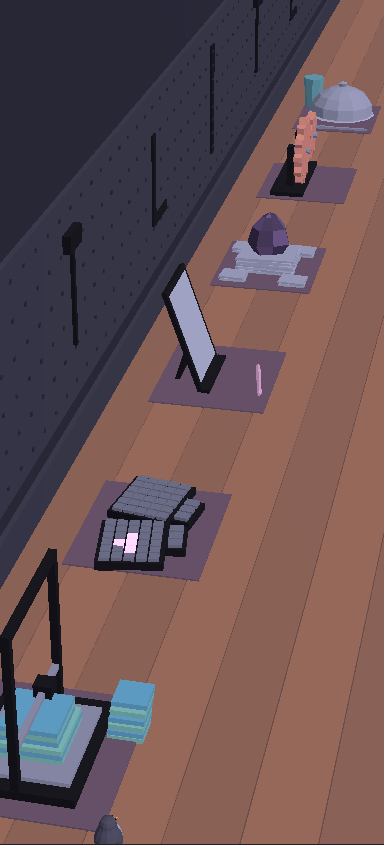
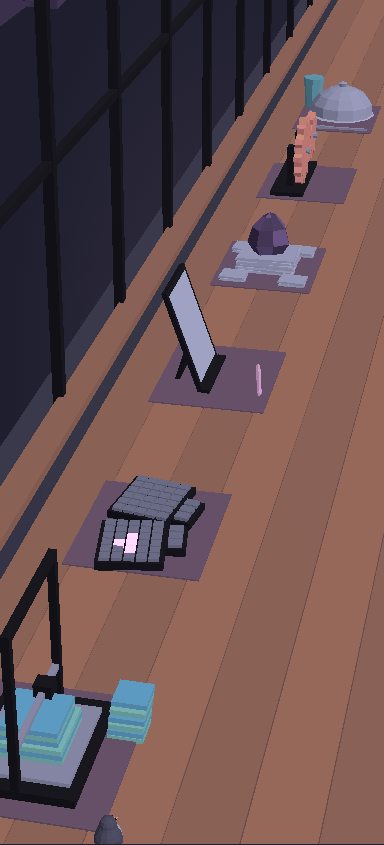
fix: window framing on the Interessi cards, darker dusk sky (PORT-92)

Changed region(s): [[0.0, 0.0, 0.875, 0.7077]]

diff --git a/src/scripts/three/interessi/bench.ts b/src/scripts/three/interessi/bench.ts
@@ -71,7 +71,14 @@ export function shotsFor(portrait: boolean): Record<string, Shot> {
     table.overview = { target: [-30, 8.2, 2], from: [-1, 0.55, 0.22], spanH: 40, spanW: 15 };
     interessiOrder.forEach((slug, i) => {
       const x = stationX(i) + (slug === 'food' ? 0.5 : -1);
-      table[slug] = { target: [x, 1, -2.8], from: [-0.12, 1, 0.6], spanH: 12, spanW: 17 };
+      // La scheda del tablet e la piu alta: oggetto un po' piu piccolo, pinguino sempre in vista.
+      const tall = slug === 'supernote';
+      table[slug] = {
+        target: [x, 1, tall ? -2 : -2.8],
+        from: [-0.12, 1, 0.6],
+        spanH: 12,
+        spanW: tall ? 20 : 17,
+      };
     });
     table.exit = { target: [LAST_X + 5, 1, 0], from: [-0.2, 0.75, 1], spanH: 12, spanW: 15 };
     return table;
@@ -80,8 +87,10 @@ export function shotsFor(portrait: boolean): Record<string, Shot> {
   table.overview = { target: [-20, 2, 1], from: [-1, 0.4, 0.7], spanH: 32, spanW: 66 };
   interessiOrder.forEach((slug, i) => {
     const x = stationX(i) + (slug === 'food' ? 0.4 : -1.4);
-    table[slug] = { target: [x, 2, 0.6], from: [-0.1, 0.55, 1], spanH: 13, spanW: 20 };
+    // Bassa, cosi dietro l'oggetto si vede il cielo; la tastiera e piatta e chiede piu altezza.
+    const rise = slug === 'zsa-moonlander' ? 0.42 : 0.26;
+    table[slug] = { target: [x, 4, 0.6], from: [-0.1, rise, 1], spanH: 13, spanW: 20 };
   });
-  table.exit = { target: [LAST_X + 3, 2.5, 1], from: [-0.15, 0.4, 1], spanH: 13, spanW: 27 };
+  table.exit = { target: [LAST_X + 3, 2.5, 1], from: [-0.15, 0.24, 1], spanH: 13, spanW: 27 };
   return table;
 }

diff --git a/src/scripts/three/scenes/interessi.ts b/src/scripts/three/scenes/interessi.ts
@@ -59,7 +59,7 @@ const HEAD_REACH = 1.3;
 const PRINT_START = 0.3;
 const LID_OPEN = 1.9;
 /** Cielo: quanto ogni fascia tende al caldo, dall'orizzonte al buio. */
-const SKY = [0.6, 0.48, 0.36, 0.26, 0.18, 0.12, 0.07, 0.03];
+const SKY = [0.36, 0.26, 0.18, 0.12, 0.08, 0.05, 0.03, 0.01];
 
 export function mount({
   canvas,
@@ -107,7 +107,7 @@ export function mount({
     wallLow: channels(tint(['--surface-hi', '--surface'])),
     sky: SKY.map((k) => channels(night.clone().lerp(glow, k))),
     sun: channels(tint(['--ctp-yellow', '--text']).lerp(peach, 0.5)),
-    hillFar: channels(night.clone().lerp(tint(['--ctp-mauve', '--text']), 0.3)),
+    hillFar: channels(night.clone().lerp(tint(['--ctp-mauve', '--text']), 0.2)),
     hillNear: channels(night.clone().lerp(tint(['--ctp-mauve', '--text']), 0.12)),
     mat: channels(soft(accent, 0.2)),
     frame: channels(tint(['--bg-deep', '--bg'])),

diff --git a/src/scripts/three/interessi/objects.ts b/src/scripts/three/interessi/objects.ts
@@ -168,11 +168,11 @@ function buildRoom(m: Mesher, p: BenchPalette): void {
   const sun: [number, number][] = [];
   for (let i = 0; i < 16; i += 1) {
     const angle = (i * Math.PI) / 8;
-    sun.push([Math.cos(angle) * 7, Math.sin(angle) * 7]);
+    sun.push([Math.cos(angle) * 5, Math.sin(angle) * 5]);
   }
-  m.extrude(sun, 1, p.sun, { x: 14, y: 16, z: SKY_Z + 3 });
-  ridge(m, SKY_Z + 7, 13, 0.03, p.hillFar);
-  ridge(m, SKY_Z + 14, 9, 0.047, p.hillNear);
+  m.extrude(sun, 1, p.sun, { x: 78, y: 11, z: SKY_Z + 3 });
+  ridge(m, SKY_Z + 7, 9, 0.03, p.hillFar);
+  ridge(m, SKY_Z + 14, 3, 0.047, p.hillNear);
   const planks = Math.ceil((BENCH_FRONT - BENCH_BACK) / PLANK);
   for (let i = 0; i < planks; i += 1) {
     const tint = i % 2 ? p.wood : p.woodAlt;

diff --git a/PORTFOLIO_SPEC.md b/PORTFOLIO_SPEC.md
@@ -90,7 +90,7 @@ Valori gzip, controllati a ogni build da `pnpm check:budget` (`scripts/budget.ts
 | `/recruiter`, `/agent` (primo caricamento / JS) | 15 KB / 0 | ~6 KB / 0 |
 | `/human` primo caricamento, **senza 3D** / JS | 32 KB / 6 KB | ~16 KB / 2,8 KB |
 | `three` (chunk unico, solo su `/human`, solo vicino a una scena) | 144 KB (da 140 in PORT-81, deciso da Alessandro) | ~140 KB |
-| ogni scena (Homelab / Domotica / Lavori / Certificazioni / Sport / Interessi) | 16 KB | 6,2 / 5,1 / 3,3 / 2,6 / 6,4 / 5,1 KB |
+| ogni scena (Homelab / Domotica / Lavori / Certificazioni / Sport / Interessi) | 16 KB | 6,2 / 5,1 / 3,3 / 2,6 / 6,4 / 5,3 KB |
 | codice condiviso delle scene (orbit, pannello, token, pinguino, inquadrature) | 4 KB | 1,5 / 1,5 KB (pannello / pinguino) |
 | bootstrap 3D / barra del tempo / terminale | 4,5 / 2 / 2 KB | 4,1 / 0,7 / 1,3 KB |
 
@@ -362,7 +362,7 @@ Tutte: prima persona, tono di Alessandro (ironico, preciso, un po' maniacale sui
 - **Open source (`/human/lavori/open-source/`, PORT-89):** ultima tappa della strada dei Lavori (una mini-skyline e la scheda "Open source" con "Approfondisci"; non e un'esperienza del CV, quindi non finisce in `/recruiter`). La pagina e una **citta low-poly** vista di lato: un quartiere per gruppo, un edificio per repository, **piu alto se ha piu stelle** (scala logaritmica), il pinguino la attraversa camminando e alla fine saluta. Una scheda per gruppo con nome, descrizione, linguaggio, stelle e link. Selezione nei dati (`openSource` dei progetti); le stelle sono lette dall'API GitHub **al build**, con riserva nei dati se non risponde, mai dal browser.
 - **Certificazioni (immersiva, PORT-87):** una **parete-bacheca** low-poly con slot esagonali e un pinguino che legge davanti, a destra (nelle schede resta fuori campo). I badge nascono dai dati `certifications`: `status: in-progress` = **esagono in costruzione** (contorno intero e liquido a metà, con un'onda lenta che si agita mentre si scorre; con reduced-motion è fermo), `earned` = **pieno**, senza toccare il codice; `rank` dà l'ordine, `scenery: cluster` mette accanto piccoli cubi collegati (generici, niente logo). Prima schermata: bacheca e intro. Poi una **scheda per ogni tecnica** (nome, ente, stato, data o data prevista, link di verifica), con la camera sull'esagono; la scheda **"Altro che ho imparato"** allarga la camera sulla fila dei badge piccoli delle accessorie. Uscita: vista della bacheca, dissolvenza verso Sport. Nessun comando. Reduced-motion: un fotogramma per momento. Fallback: poster con avviso; senza JS schede sul fondo semplice. Le tecniche compaiono **anche come piccoli badge nella prima schermata** dell'Umano e in evidenza nel recruiter.
 - **Sport (immersiva, PORT-88, sostituisce le tre micro-scene):** una **grande montagna low-poly ispirata al Monte Bianco** (cupola sommitale innevata e arrotondata, spalle ampie, creste e guglie rocciose, ghiacciai) con **tre versanti** e una sola scena `sport`. Prima schermata: montagna intera, tutto si muove piano. **Sci** (versante centrale): un pinguino scende a curve e lascia la traccia ("la curva perfetta"). **Montagna** (versante sinistro): due pinguini con lo zaino salgono il sentiero; la loro posizione è funzione pura dello scroll, si girano nel verso del moto e a scroll fermo stanno fermi. **Tennis** e **Pallavolo** (versante destro, due campi vicini): la pallina rimbalza nel campo in terra rossa; due pinguini si passano il pallone con un bagher sopra la rete ("passato da pallavolista"). Uscita: ritorno alla montagna intera, dissolvenza verso Interessi. Sciatore e palle sono cicli lenti legati al tempo, fermi fuori schermo; reduced-motion: un fotogramma fermo per momento. Terreno, alberi, campi e rifugi sono una sola mesh colorata per faccia, generata nel browser. Sotto-segmenti della barra del tempo: uno per attività. Fallback: poster con avviso; senza JS schede sul fondo semplice.
-- **Interessi (immersiva, PORT-92):** una sola sezione, sei argomenti: stampa 3D, tastiera **ZSA Moonlander** con layout personalizzato (layer gaming e layout ibrido US/IT), ebook reader **Supernote** e relativi tool, **Obsidian**, **Rust** (in apprendimento) e **il cibo / i posti dove si mangia bene** (con una battuta). La sezione Umano "deve essere Alessandro a pieno": più dettagli personali che omissioni. Scena: un **lungo banco da lavoro** con sei **oggetti giganti e generici** in fila (nessun logo) e un **pinguino piccolo** che cammina sul piano; la posizione dipende solo dallo scroll e a ogni scheda è fermo accanto all'oggetto. Prima schermata: vista lungo il banco con intro. Poi una **scheda per oggetto**: stampante (il pezzo sale a strati, accanto un pezzo storto), tastiera split (due gruppi di tasti che si accendono a turno), tablet e-ink (le righe compaiono), appunti collegati da fili con una roccia di ossidiana, due ingranaggi color ruggine che girano piano, piatto con la cupola che si apre. Uscita: il pinguino saluta oltre il piatto, dissolvenza verso Beneficenza. Nessun comando. Reduced-motion: un fotogramma per momento. Fallback: poster con avviso; senza JS schede sul fondo semplice.
+- **Interessi (immersiva, PORT-92):** una sola sezione, sei argomenti: stampa 3D, tastiera **ZSA Moonlander** con layout personalizzato (layer gaming e layout ibrido US/IT), ebook reader **Supernote** e relativi tool, **Obsidian**, **Rust** (in apprendimento) e **il cibo / i posti dove si mangia bene** (con una battuta). La sezione Umano "deve essere Alessandro a pieno": più dettagli personali che omissioni. Scena: un **lungo banco da lavoro** davanti a una **vetrata al tramonto** con sei **oggetti giganti e generici** in fila (nessun logo) e un **pinguino piccolo** che cammina sul piano; la posizione dipende solo dallo scroll e a ogni scheda è fermo accanto all'oggetto. Prima schermata: vista lungo il banco con intro. Poi una **scheda per oggetto**: stampante (il pezzo sale a strati, accanto un pezzo storto), tastiera split (due gruppi di tasti che si accendono a turno), tablet e-ink (le righe compaiono), appunti collegati da fili con una roccia di ossidiana, due ingranaggi color ruggine che girano piano, piatto con la cupola che si apre. Uscita: il pinguino saluta oltre il piatto, dissolvenza verso Beneficenza. Nessun comando. Reduced-motion: un fotogramma per momento. Fallback: poster con avviso; senza JS schede sul fondo semplice.
 - **Beneficenza:** tono più sobrio, meno movimento. **Rotaract Abbiategrasso**; il sito del **primo multidistretto italiano** (`MDIO-website`) come progetto concreto. Una battuta leggera al massimo.
 - **Contatti (chiusura):** scena finale tranquilla; ritorno al terminale con un saluto; email dedicata, LinkedIn, GitHub, dev.to, X, pulsante CV.
 
